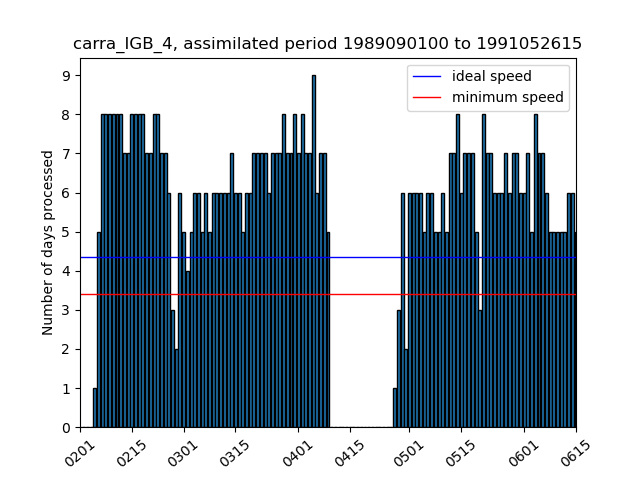
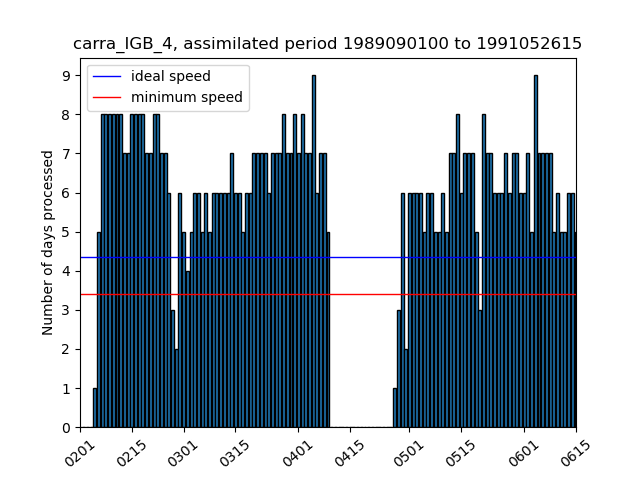
update repo

Changed region(s): [[0.625, 0.125, 0.9062, 0.25], [0.125, 0.125, 0.4062, 0.2188], [0.8438, 0.3125, 0.875, 0.5]]

diff --git a/current_state_sims.html b/current_state_sims.html
@@ -2,18 +2,18 @@
 <h1>Estimated completion dates and simulation speeds</h1>
 <p>Stream (production) completion date based on 30d (7d) moving avg speed</p>
 <p><a href="https://docs.google.com/document/d/1zDKAxuEXYnWWYzT3SZnZwY5WW8nodUMeYRjAGz46coc/edit#">Details of the calculation of the completion dates</a></p>
-<p>Last update: 2021/06/16 08:51:51 UTC</p>
-<p>Total progress CARRA: 87.25% <a href="https://hirlam.org/portal/CARRA/Progress/GanntChart_CARRA.html"> (see detailed progress meter in Gantt chart) </a></p>
+<p>Last update: 2021/06/16 11:34:08 UTC</p>
+<p>Total progress CARRA: 87.36% <a href="https://hirlam.org/portal/CARRA/Progress/GanntChart_CARRA.html"> (see detailed progress meter in Gantt chart) </a></p>
 <p>Total progress PANARCTIC: 18.18% </p>
 <p><a href="https://hirlam.org/portal/CARRA/Progress/waiting_times.html"> Queue waiting times for all streams</a></p>
 <p><a href="https://hirlam.org/portal/CARRA/Progress/mars_status.html"> MARS archive throughput </a></p>
 <html><table border="1"><tr><th>expId</th><th>Current assimilated date</th><th>End date of stream </th><th> Completion date</th><th> Avg. throughput (7d) </th> <th>Avg. throughput (30d) </th> <th> Remarks</tr>
-<tr bgcolor="#FFFFFF"><td>carra_NE_3</td><td>2021033100</td><td>2021063021</td><td>2021071419</td><td>(4.0) days/day</td><td>(3.2) days/day</td><td></tr>
-<tr bgcolor="#FFFFFF"><td>carra_NE_4</td><td>1991062003</td><td>1992083021</td><td>2021082502</td><td>(4.29) days/day</td><td>(6.27) days/day</td><td></tr>
-<tr bgcolor="#FFFFFF"><td>carra_NE_5</td><td>1993052315</td><td>1994083021</td><td>2021082009</td><td>(7.71) days/day</td><td>(7.13) days/day</td><td></tr>
-<tr bgcolor="#FFFFFF"><td>carra_NE_6</td><td>1995102706</td><td>1997063021</td><td>2021091205</td><td>(7.71) days/day</td><td>(6.97) days/day</td><td></tr>
-<tr bgcolor="#FFFF00"><td>carra_IGB_3</td><td>2021020203</td><td>2021063021</td><td>2021100508</td><td>(1.14) days/day</td><td>(1.33) days/day</td><td>Delays due to production issues</tr>
-<tr bgcolor="#FFFFFF"><td>carra_IGB_4</td><td>1991052615</td><td>1992083021</td><td>2021083102</td><td>(5.29) days/day</td><td>(6.1) days/day</td><td></tr>
-<tr bgcolor="#FFFFFF"><td>carra_IGB_5</td><td>1993032106</td><td>1994083021</td><td>2021091204</td><td>(4.86) days/day</td><td>(6.0) days/day</td><td></tr>
-<tr bgcolor="#FFA500"><td>carra_IGB_6</td><td>1995053100</td><td>1997063021</td><td>2021111214</td><td>(5.29) days/day</td><td>(5.1) days/day</td><td>Completion date after project end (20211031)</tr>
-<tr bgcolor="#FFFFFF"><td>carra_pan</td><td>2017112818</td><td>2018083121</td><td>2021091709</td><td>(3.57) days/day</td><td>(2.97) days/day</td><td></tr>
+<tr bgcolor="#FFFFFF"><td>carra_NE_3</td><td>2021033100</td><td>2021063021</td><td>2021071422</td><td>(4.0) days/day</td><td>(3.2) days/day</td><td></tr>
+<tr bgcolor="#FFFFFF"><td>carra_NE_4</td><td>1991062003</td><td>1992083021</td><td>2021082505</td><td>(4.29) days/day</td><td>(6.27) days/day</td><td></tr>
+<tr bgcolor="#FFFFFF"><td>carra_NE_5</td><td>1993052315</td><td>1994083021</td><td>2021082012</td><td>(7.71) days/day</td><td>(7.13) days/day</td><td></tr>
+<tr bgcolor="#FFFFFF"><td>carra_NE_6</td><td>1995102706</td><td>1997063021</td><td>2021091207</td><td>(7.71) days/day</td><td>(6.97) days/day</td><td></tr>
+<tr bgcolor="#FFFF00"><td>carra_IGB_3</td><td>2021020203</td><td>2021063021</td><td>2021100511</td><td>(1.14) days/day</td><td>(1.33) days/day</td><td>Delays due to production issues</tr>
+<tr bgcolor="#FFFFFF"><td>carra_IGB_4</td><td>1991052615</td><td>1992083021</td><td>2021082904</td><td>(5.43) days/day</td><td>(6.27) days/day</td><td></tr>
+<tr bgcolor="#FFFFFF"><td>carra_IGB_5</td><td>1993032106</td><td>1994083021</td><td>2021091207</td><td>(4.86) days/day</td><td>(6.0) days/day</td><td></tr>
+<tr bgcolor="#FFA500"><td>carra_IGB_6</td><td>1995053100</td><td>1997063021</td><td>2021111216</td><td>(5.29) days/day</td><td>(5.1) days/day</td><td>Completion date after project end (20211031)</tr>
+<tr bgcolor="#FFFFFF"><td>carra_pan</td><td>2017112818</td><td>2018083121</td><td>2021091712</td><td>(3.57) days/day</td><td>(2.97) days/day</td><td></tr>
